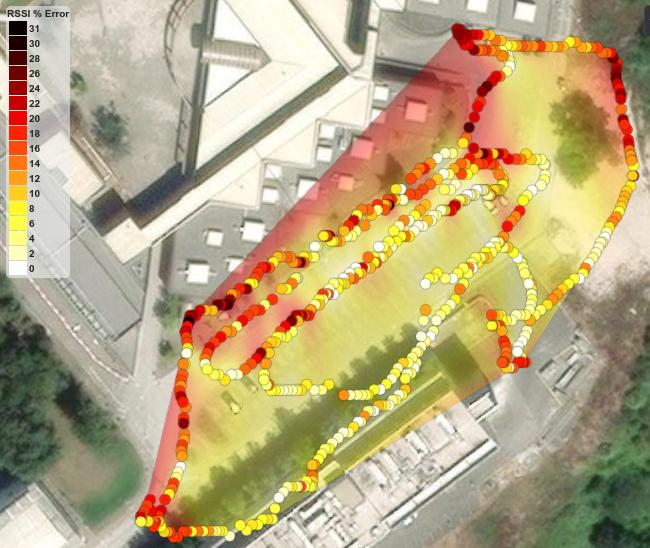
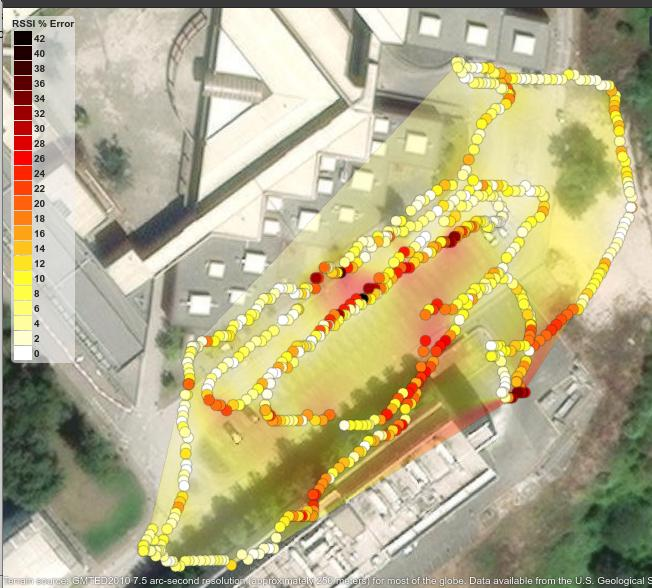
Adds antenna rotation to ray tracing model
Implements antenna rotation functionality for the ray tracing model.

This allows for more realistic simulations by considering antenna tilt and orientation.

The previous implementation only considered the default antenna orientation. This change adds the ability to specify rotation angles and axes, improving the accuracy of the simulation.

diff --git a/trabalho_bruno_pedro.m b/trabalho_bruno_pedro.m
@@ -710,6 +710,31 @@ tx = txsite("Name", "Base Station", ...
     "TransmitterPower", Ptx_W, ...
     "TransmitterFrequency", frequency);
 
+% Create HyperLOG 3080 antenna equivalent using patch antenna
+antenna = design(patchMicrostrip, frequency);
+
+% Rotate the antenna
+antenna.Tilt = 45;                     % Rotation angle in degrees
+antenna.TiltAxis = [0 0 1];            % Rotation axis (Z-axis for azimuth rotation)
+
+% Alternative rotation examples:
+% antenna.Tilt = 30;                   % 30 degrees tilt
+% antenna.TiltAxis = [1 0 0];          % X-axis rotation (elevation tilt)
+% antenna.TiltAxis = [0 1 0];          % Y-axis rotation (roll)
+% antenna.TiltAxis = [0 0 1];          % Z-axis rotation (azimuth)
+
+% Verify the antenna pattern after rotation
+fprintf("Antenna gain at boresight: %.1f dBi\n", pattern(antenna, frequency, 0, 0));
+
+% Create transmitter site with rotated antenna
+tx = txsite("Name", "Base Station HyperLOG 3080", ...
+    "Latitude", latitude, ...
+    "Longitude", longitude, ...
+    "AntennaHeight", txHeight, ...
+    "TransmitterPower", Ptx_W, ...
+    "TransmitterFrequency", frequency, ...
+    "Antenna", antenna);  % Use the rotated antenna
+
 %% === SETUP RAY TRACING MODEL ===
 fprintf("Creating ray tracing propagation model...\n");
 
